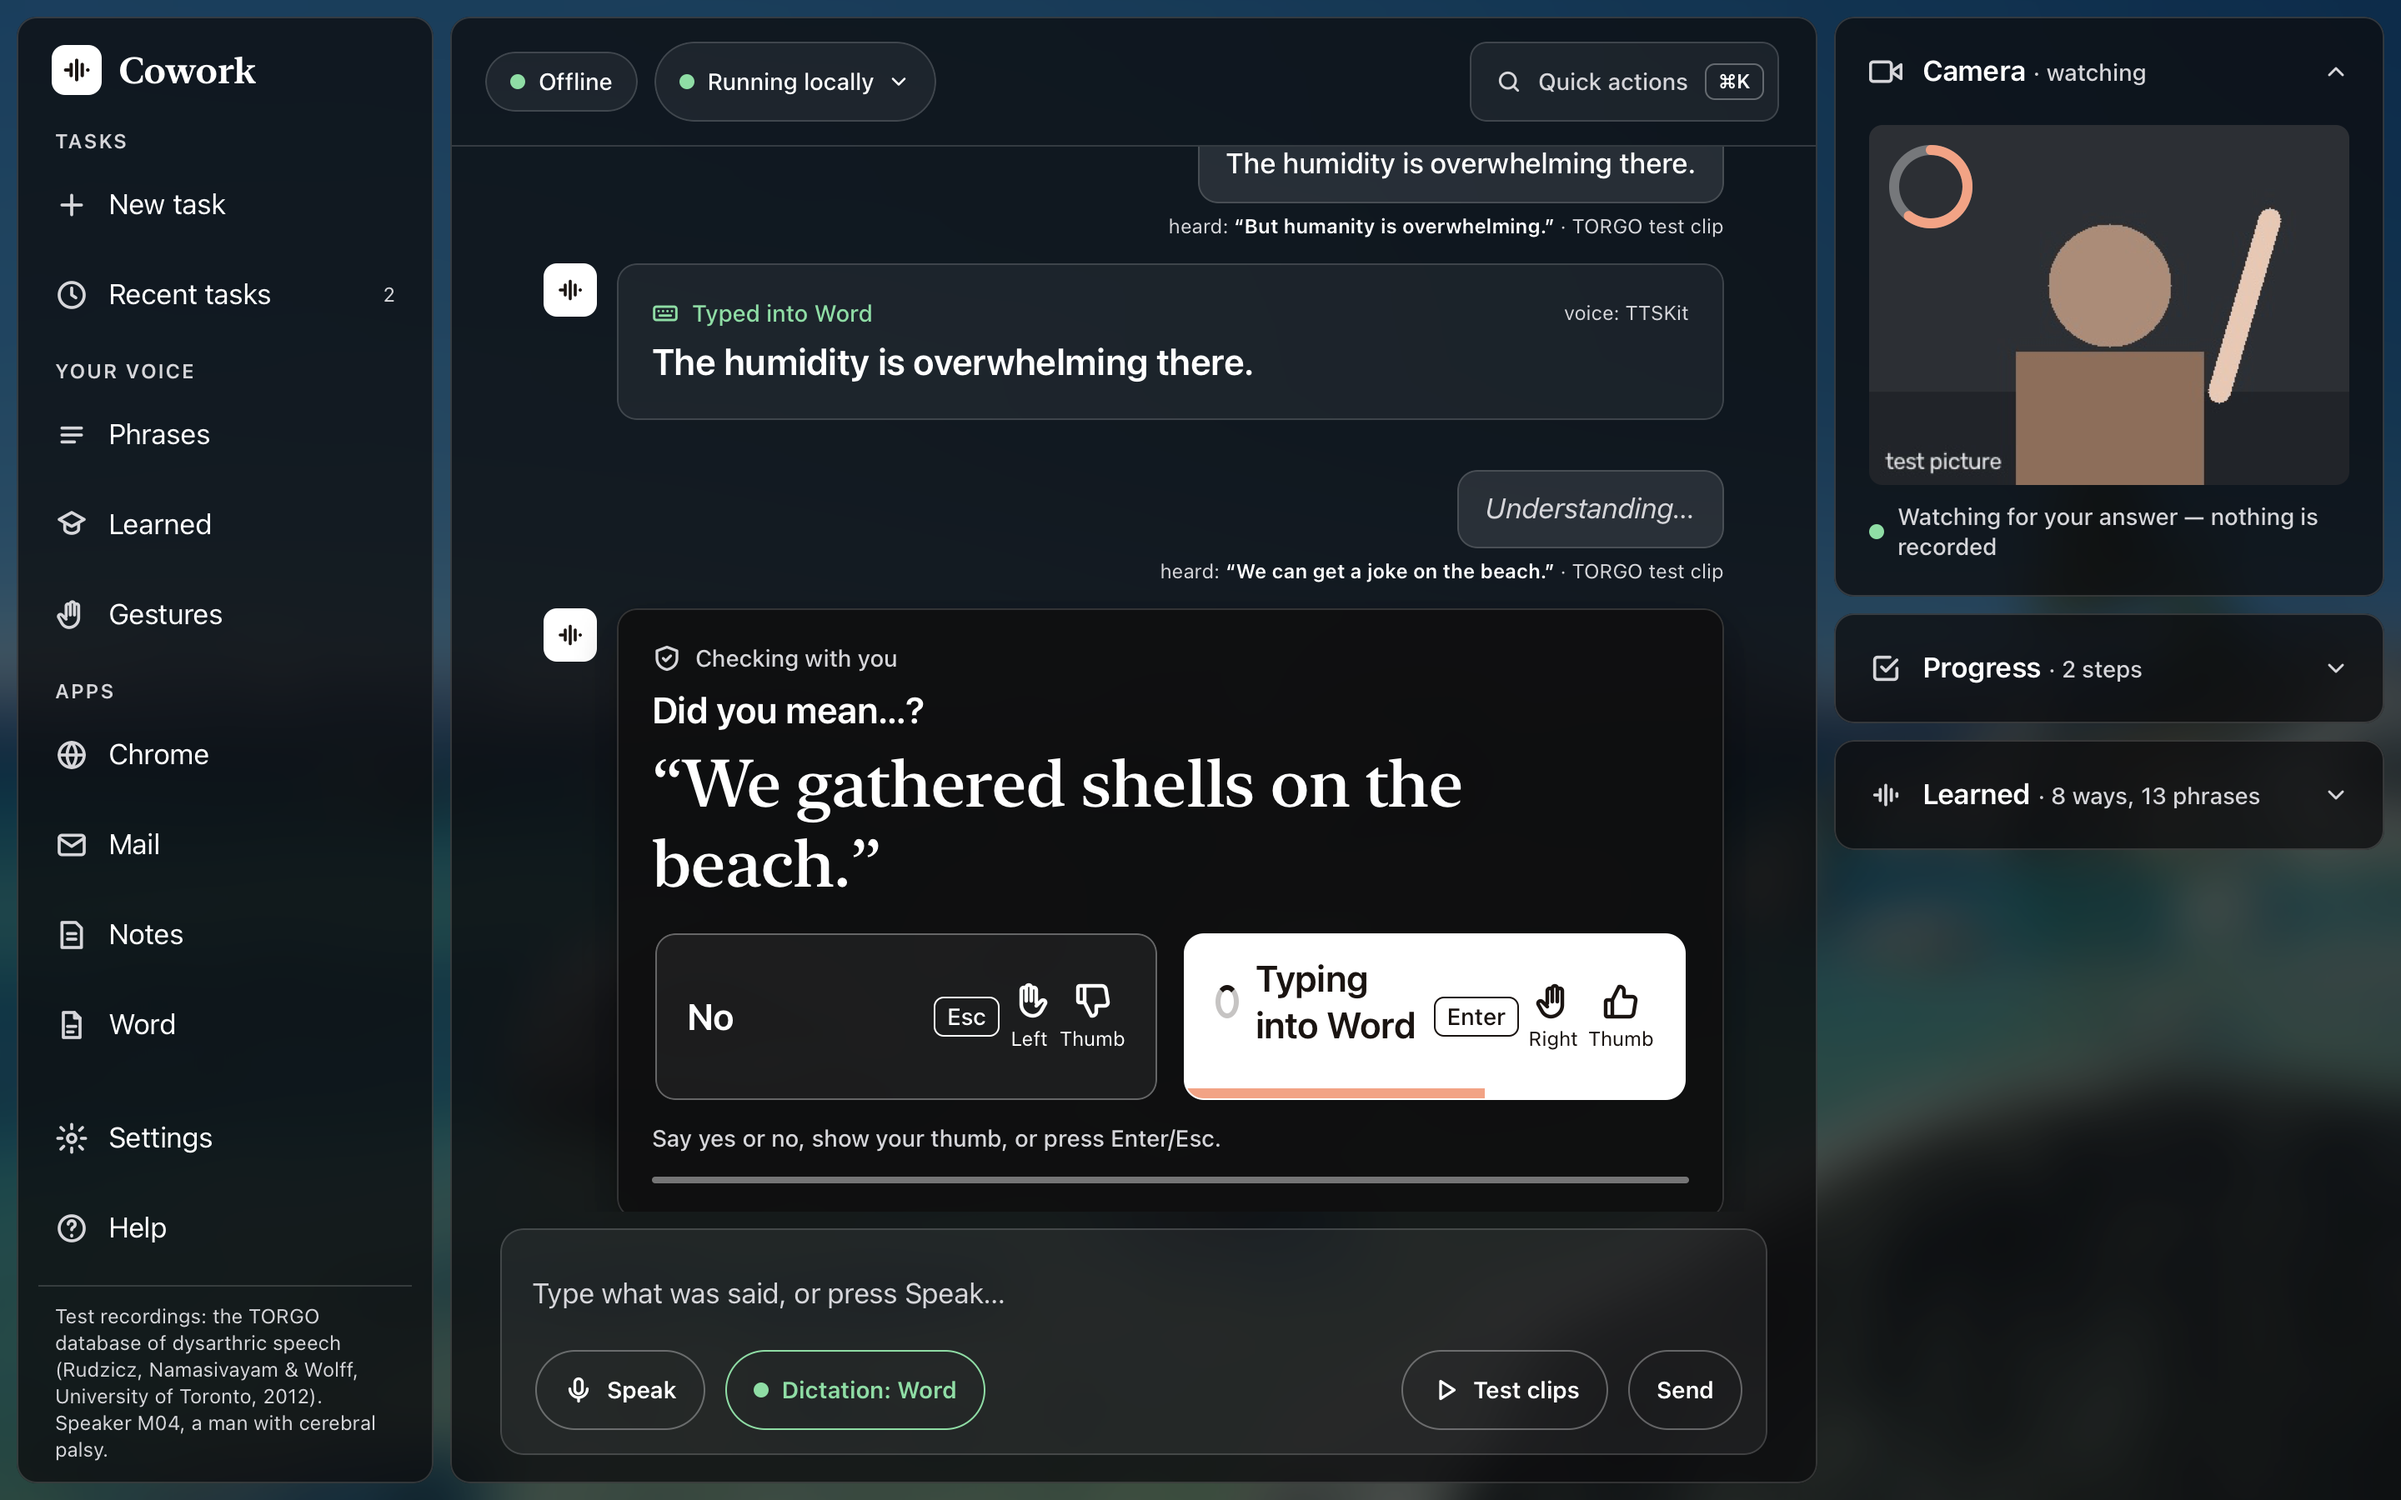
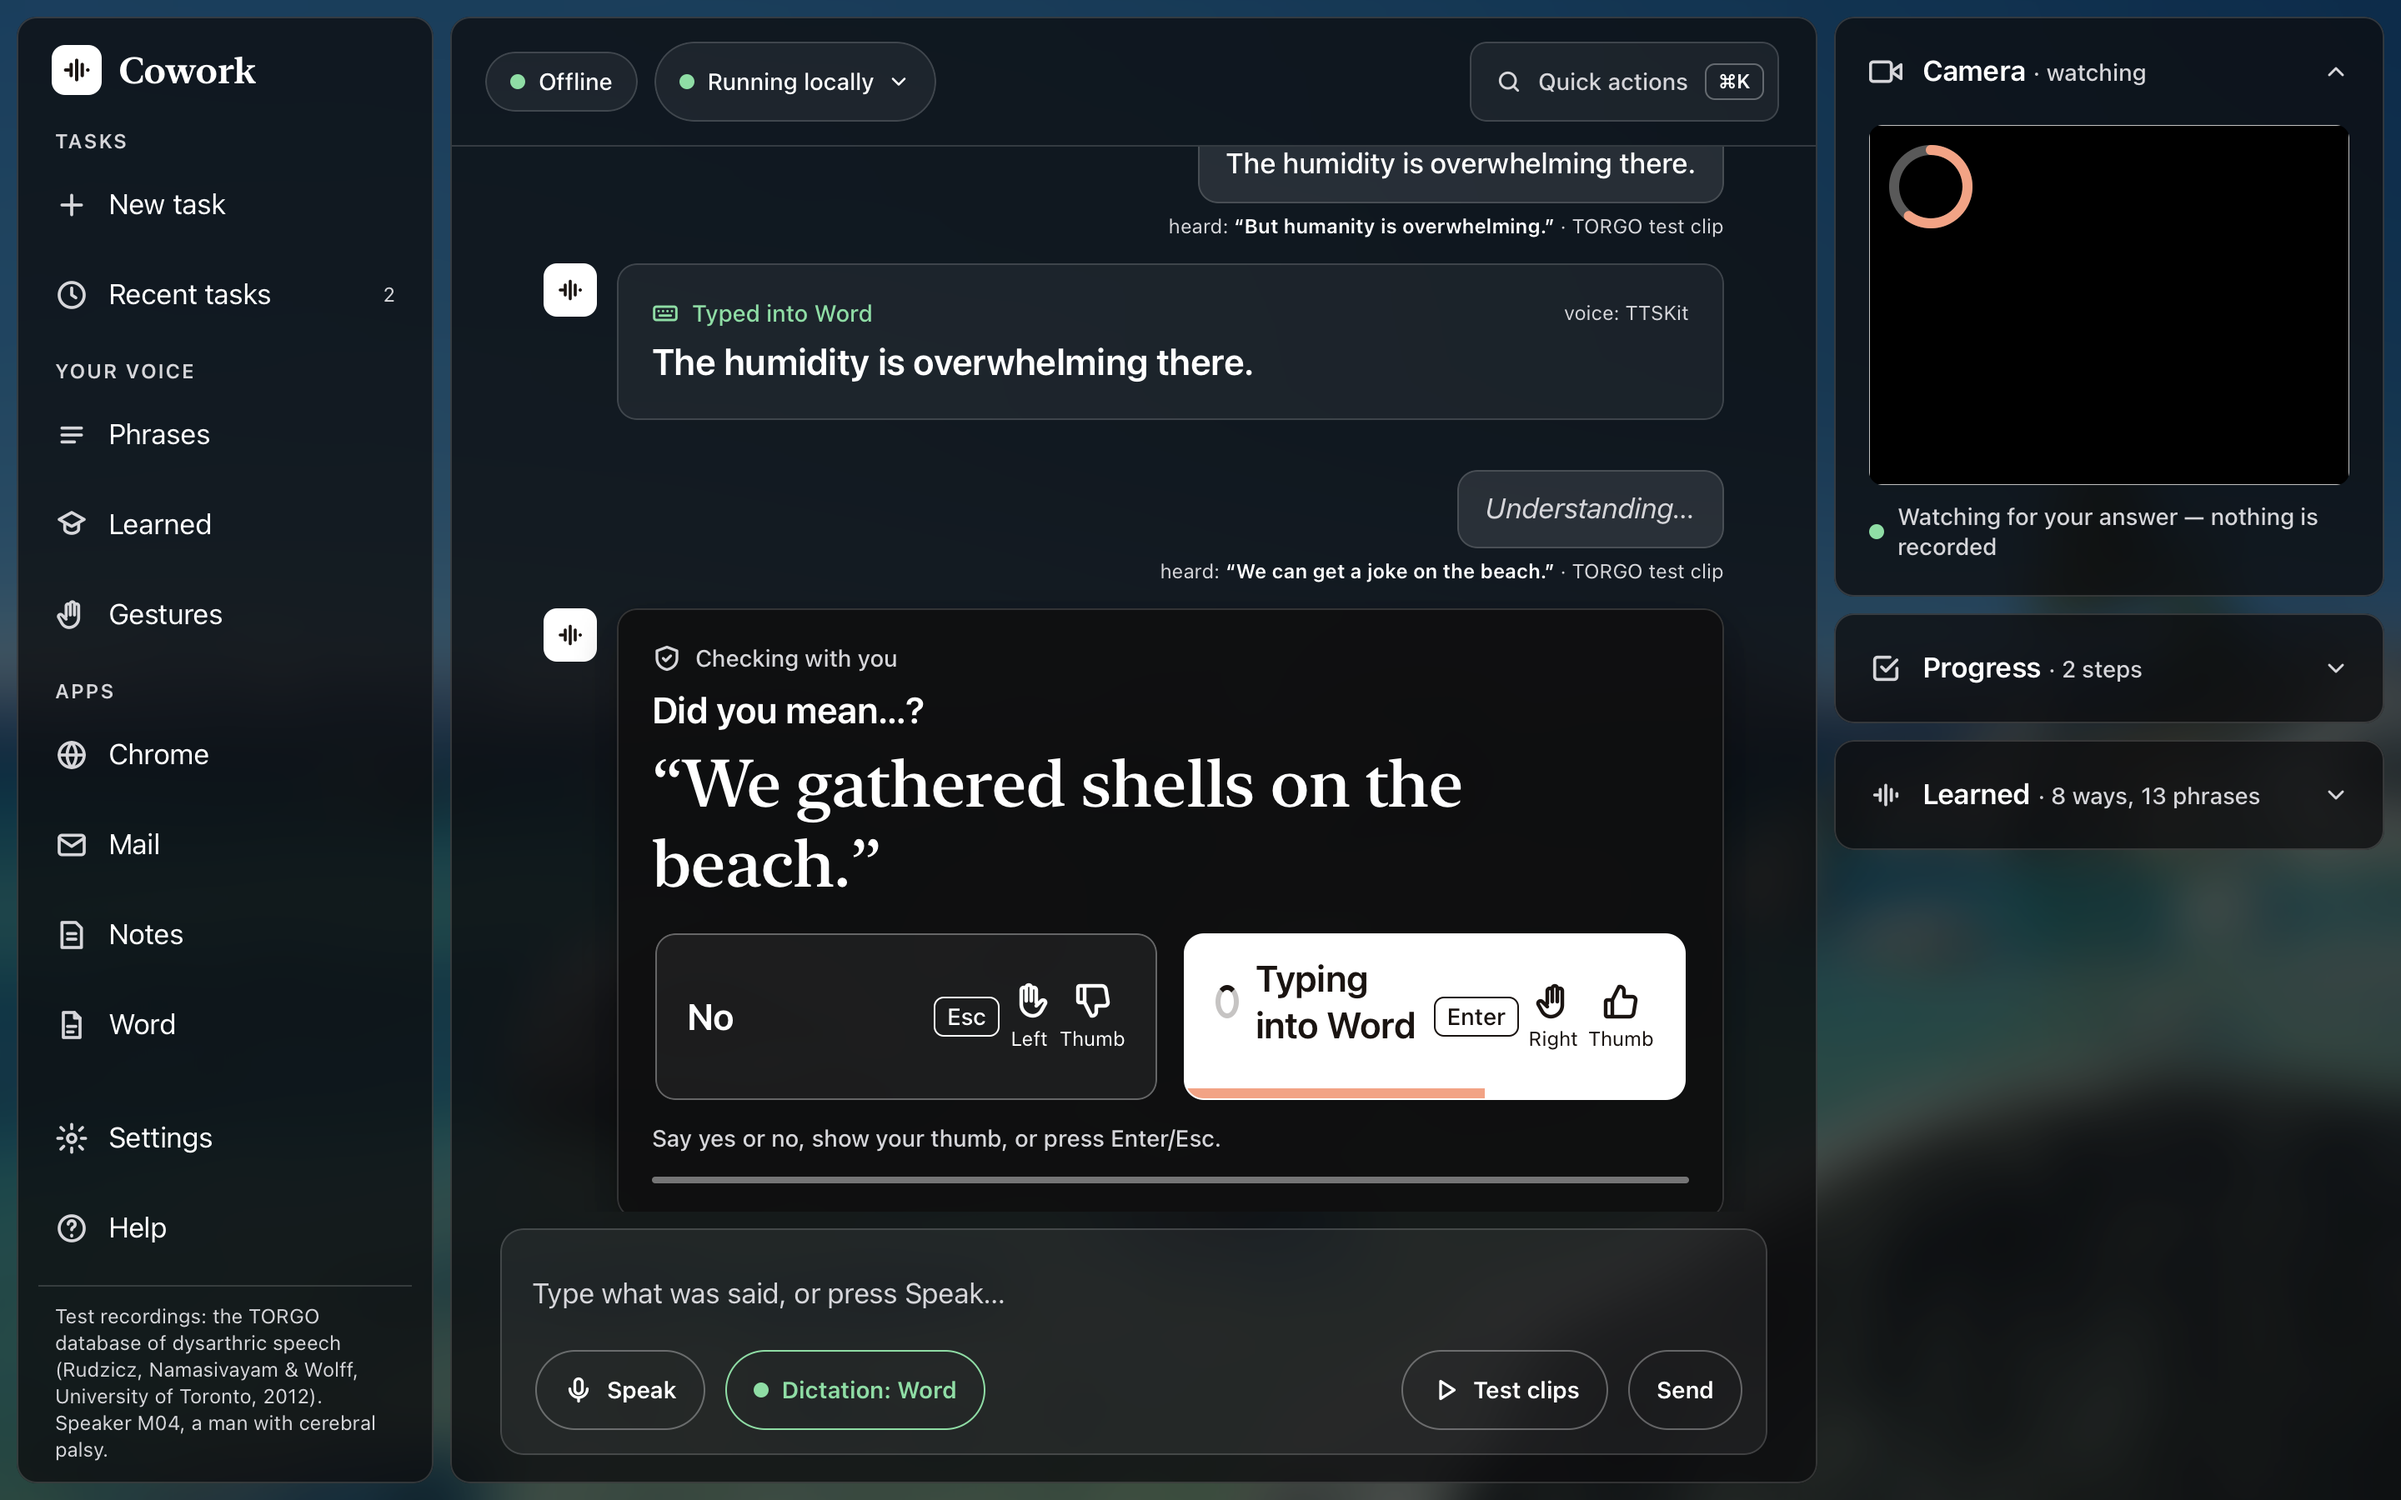
Docs: PROGRESS.md round D update; screenshots retaken, with Word's start screen, a question answered, email box by box and the mini window

Changed region(s): [[0.7812, 0.0622, 1.0, 0.3422]]

diff --git a/scripts/screenshots.py b/scripts/screenshots.py
@@ -119,6 +119,86 @@ def snapshot(web, path: Path) -> None:
     print("saved", path)
 
 
+def screen_scenes(core, web, out, ready, asking) -> None:
+    """Word's start screen, a question answered, and an email written box by box."""
+    from actions.screen import Screen
+    fake = core.session.actions._actions
+    start = Screen(app="Microsoft Word", pid=1, place="start screen", choices=["Blank document", "Open a recent file"])
+    doc = Screen(app="Microsoft Word", pid=1, window="Document1", place="document", focus="the document", typeable=True)
+    order = ["to", "cc", "subject", "body"]
+
+    def email(field):
+        return Screen(app="Mail", pid=2, place="new email", field=field, typeable=True,
+                      focus="the message" if field == "body" else f"the {field.capitalize()} box")
+
+    now = {"screen": start}
+    fake.screen = lambda: now["screen"]
+    fake.contacts = {"Me": "me@example.org"}
+    plain_context, plain_run = fake.context, fake.run
+
+    def context():
+        found = plain_context()
+        found["_screen"] = now["screen"]
+        found["field"] = ["To", "Cc", "Subject", "Message"]
+        return found
+
+    def run(command, args):
+        result = plain_run(command, args)
+        current = now["screen"]
+        if command == "new_document":
+            now["screen"] = doc
+        elif command == "new_email":
+            now["screen"] = email("to")
+        elif command in ("next_field", "previous_field") and current.place == "new email":
+            i = order.index(current.field) + (1 if command == "next_field" else -1)
+            now["screen"] = email(order[max(0, min(3, i))])
+        return result
+
+    fake.context, fake.run = context, run
+
+    def say_and_confirm(text):
+        n = len(core.state["history"])
+        core.say(text)
+        wait(lambda: core.state["question"] is not None or len(core.state["history"]) > n, 10)
+        q = core.state["question"]
+        if q and q["stage"] in ("did_you_mean", "address"):
+            core.answer("yes")
+            wait(lambda: core.state["question"] is None or core.state["question"]["id"] != q["id"])
+        wait(lambda: len(core.state["history"]) > n or (core.state["question"] or {}).get("stage") == "screen", 10)
+        q = core.state["question"]
+        if q and q["kind"] == "window":
+            core.answer("yes")
+            wait(ready)
+
+    core.new_task()
+    core.set_dictation(True)
+    say_and_confirm("type see you at noon")
+    pump(0.6)
+    snapshot(web, out / "14_word_start_screen_choice.png")
+    core.answer("pick", 0)
+    wait(lambda: core.state["question"] is not None and core.state["question"]["kind"] == "window")
+    pump(0.6)
+    snapshot(web, out / "15_blank_document_then_typed.png")
+    core.answer("yes")
+    wait(ready)
+
+    import repair.answer   # the answer the real Bonsai gave in the live test (2026-11-14), not the fake's placeholder
+    repair.answer.answer_question = lambda *a, **k: (
+        "Boston in late November is usually cold and rainy. I'm offline, so I can't check today's forecast.", "")
+    core.voice.tts.which_voice = lambda text: "Mac voice (Reed)" if "Boston" in text else "TTSKit"   # a new sentence
+    core.new_task()
+    say_and_confirm("what's the weather in Boston")
+    pump(0.6)
+    snapshot(web, out / "16_question_answered.png")
+
+    core.new_task()
+    fake.target = "Mail"
+    for text in ("write an email", "me", "next box", "next box"):
+        say_and_confirm(text)
+    pump(0.6)
+    snapshot(web, out / "17_email_box_by_box.png")
+
+
 def main() -> None:
     out = Path(sys.argv[1] if len(sys.argv) > 1 else config.ROOT / "docs" / "screenshots")
     out.mkdir(parents=True, exist_ok=True)
@@ -227,13 +307,7 @@ def main() -> None:
     core.answer("yes")
     wait(ready)
 
-    core.say("email anna saying lunch at noon")
-    wait(asking)
-    core.answer("yes")
-    wait(lambda: core.state["question"] is not None and core.state["question"]["kind"] == "window")
-    core.answer("yes")
-    wait(ready)
-    core.say("send it")
+    core.say("send the email")
     wait(asking)
     pump(0.6)
     snapshot(web, out / "07_risky_send.png")
@@ -268,6 +342,11 @@ def main() -> None:
     core._set(mic=dict(core.state["mic"], on=False, problem="Could not open the microphone (no input device)."))
     pump(0.6)
     snapshot(web, out / "11_mic_unavailable.png")
+    core._set(mic=dict(core.state["mic"], on=True, problem=""))
+    core.camera_state({"on": True, "problem": ""})
+
+    # ---- looking at the screen (a fake Mac whose screen the script sets) ----------------------
+    screen_scenes(core, web, out, ready, asking)
     server.should_exit = True
     shutil.rmtree(work, ignore_errors=True)
 

diff --git a/docs/PROGRESS.md b/docs/PROGRESS.md
@@ -1,4 +1,58 @@
-# Progress report (written 2026-11-12)
+# Progress report
+
+## Update 2026-11-14: Cowork branch, round D ("look before acting", the mini window)
+
+Branch `cowork`. **All 15 test files pass** (620 checks):
+
+    for t in tests/test_*.py; do .venv/bin/python $t | tail -1; done
+
+### What is new, in plain English
+
+| | What it does | Where |
+|---|---|---|
+| Look before acting | Before and after every action Cowork reads the screen (Accessibility: which app, what it shows, what has the cursor), 1-8 ms a read. Shown in Progress ("Word open, start screen", "Blank document ready") and told to Bonsai with each request. | `actions/screen.py` |
+| Never type in the wrong place | Typing only when a document, text box or email box has the cursor. Word's start screen offers "Blank document / Open a recent file / Something else"; a search box asks first. | `ui/app.py` (`_Targeted`) |
+| Commands vs. typing vs. questions | Commands in any wording ("write an email", "new mail", "compose"...). Typing only for "type ..." or dictation into a box. Questions are answered aloud in 1-2 sentences, saying plainly that it is offline; never typed. | `ui/screen_rules.py`, `repair/answer.py` |
+| Mail box by box | "open Mail" only opens Mail (bug fixed: Mail reopened last time's draft and Cowork also pressed Command+N). "write an email" = one email, cursor in To; "next box" / "back" / "go to subject"; spoken addresses ("sam at gmail dot com") or a contact's name ("me") are confirmed before typing; "send" asks first and only ever sends to Me with `EMAIL_REALLY_SEND` on (it is off). | `actions/mac.py`, `ui/spoken.py` |
+| Browsers | "new tab", "search for ..." (typed into the address bar), "hit search". | `actions/mac.py` |
+| Flicker fixed | The camera sent hand progress 15-30 times a second; each redraw replayed the card's slide-in. Now only changes are sent and the card is drawn once. | `tests/test_no_flicker.py` |
+| "Something else" | Guesses use the words heard and the screen (as background only), and can be questions. | `repair/guess.py` |
+| Mini window | When Cowork opens or brings forward an app, it shrinks to a small floating window in the top right corner that never takes the keyboard. It listens hands-free, says questions aloud, takes thumbs / voice / Enter, Esc, 1-4. "stop listening", Esc or a click stops listening; "show Cowork" or closing the last app it opened brings back the full window. | `ui/window.py`, `ui/static/mini.html` |
+
+Pictures: `docs/screenshots/12`-`17`.
+
+### Live results (real WhisperKit, Bonsai, Word, Mail, Chrome; requests made with the Mac voice and fed in)
+
+| Flow | Result |
+|---|---|
+| open Microsoft Word -> new blank document -> a sentence | Works: the sentence is in a new blank document, nothing in the search box |
+| open Mail -> write an email -> "me" -> next box x2 -> subject -> next box -> message -> send -> close Mail | Works: one window, no drafts; send asked first, then refused (`EMAIL_REALLY_SEND` off); Cowork back to full size |
+| open Mail -> open Microsoft Word -> what's the weather in Boston? | Works: answered aloud, nothing typed, no flicker |
+| open Chrome -> search for Cornell -> hit search | Works: a Google search for Cornell |
+
+Response times: learned commands 0.3-0.5 s; with Bonsai 1.5-3 s; the first request after
+learning something 4-6 s (Bonsai re-reads its instructions); a question about 6-7 s in all.
+
+### Measured and decided against
+- **Screenshot + Bonsai vision** as a fallback: 4.3-4.8 s and about +300 MB per new picture,
+  wrong on both test pictures, and it needs the Screen Recording permission. Not used.
+
+### Known problems
+- **Hands-free hears the room.** With hands-free listening on, other people's speech becomes
+  requests (seen live). "Did you mean...?" stops it doing anything unasked, but it keeps asking.
+- Confirming a misheard request teaches it (e.g. "Open" -> new blank document).
+- WhisperKit mishears spelled-out addresses; saying a contact's name ("me") is reliable.
+- The send check saves the email to Drafts (Mail shows names, not addresses, on its chips),
+  so a refused email stays in Drafts. "close Mail" also lets Mail keep an unsent email as a draft.
+- Dictated sentences sometimes get a "Did you mean: Type ...?" check first.
+
+### Test-only switches
+`COWORK_TEST_AUDIO=1` (feed recordings in), `COWORK_TEST_SILENT_MIC=1` (the room is not heard),
+`--work-profile PATH` (learn into a throwaway file). All off by default.
+
+---
+
+## Earlier report (written 2026-11-12, `fable-build` branch)
 
 Where the `fable-build` branch stands against `docs/BUILD_BRIEF.md`, in plain English.
 Based on the git log, the code, `docs/DECISIONS.md`, `docs/STATUS.md`, and a fresh run of
